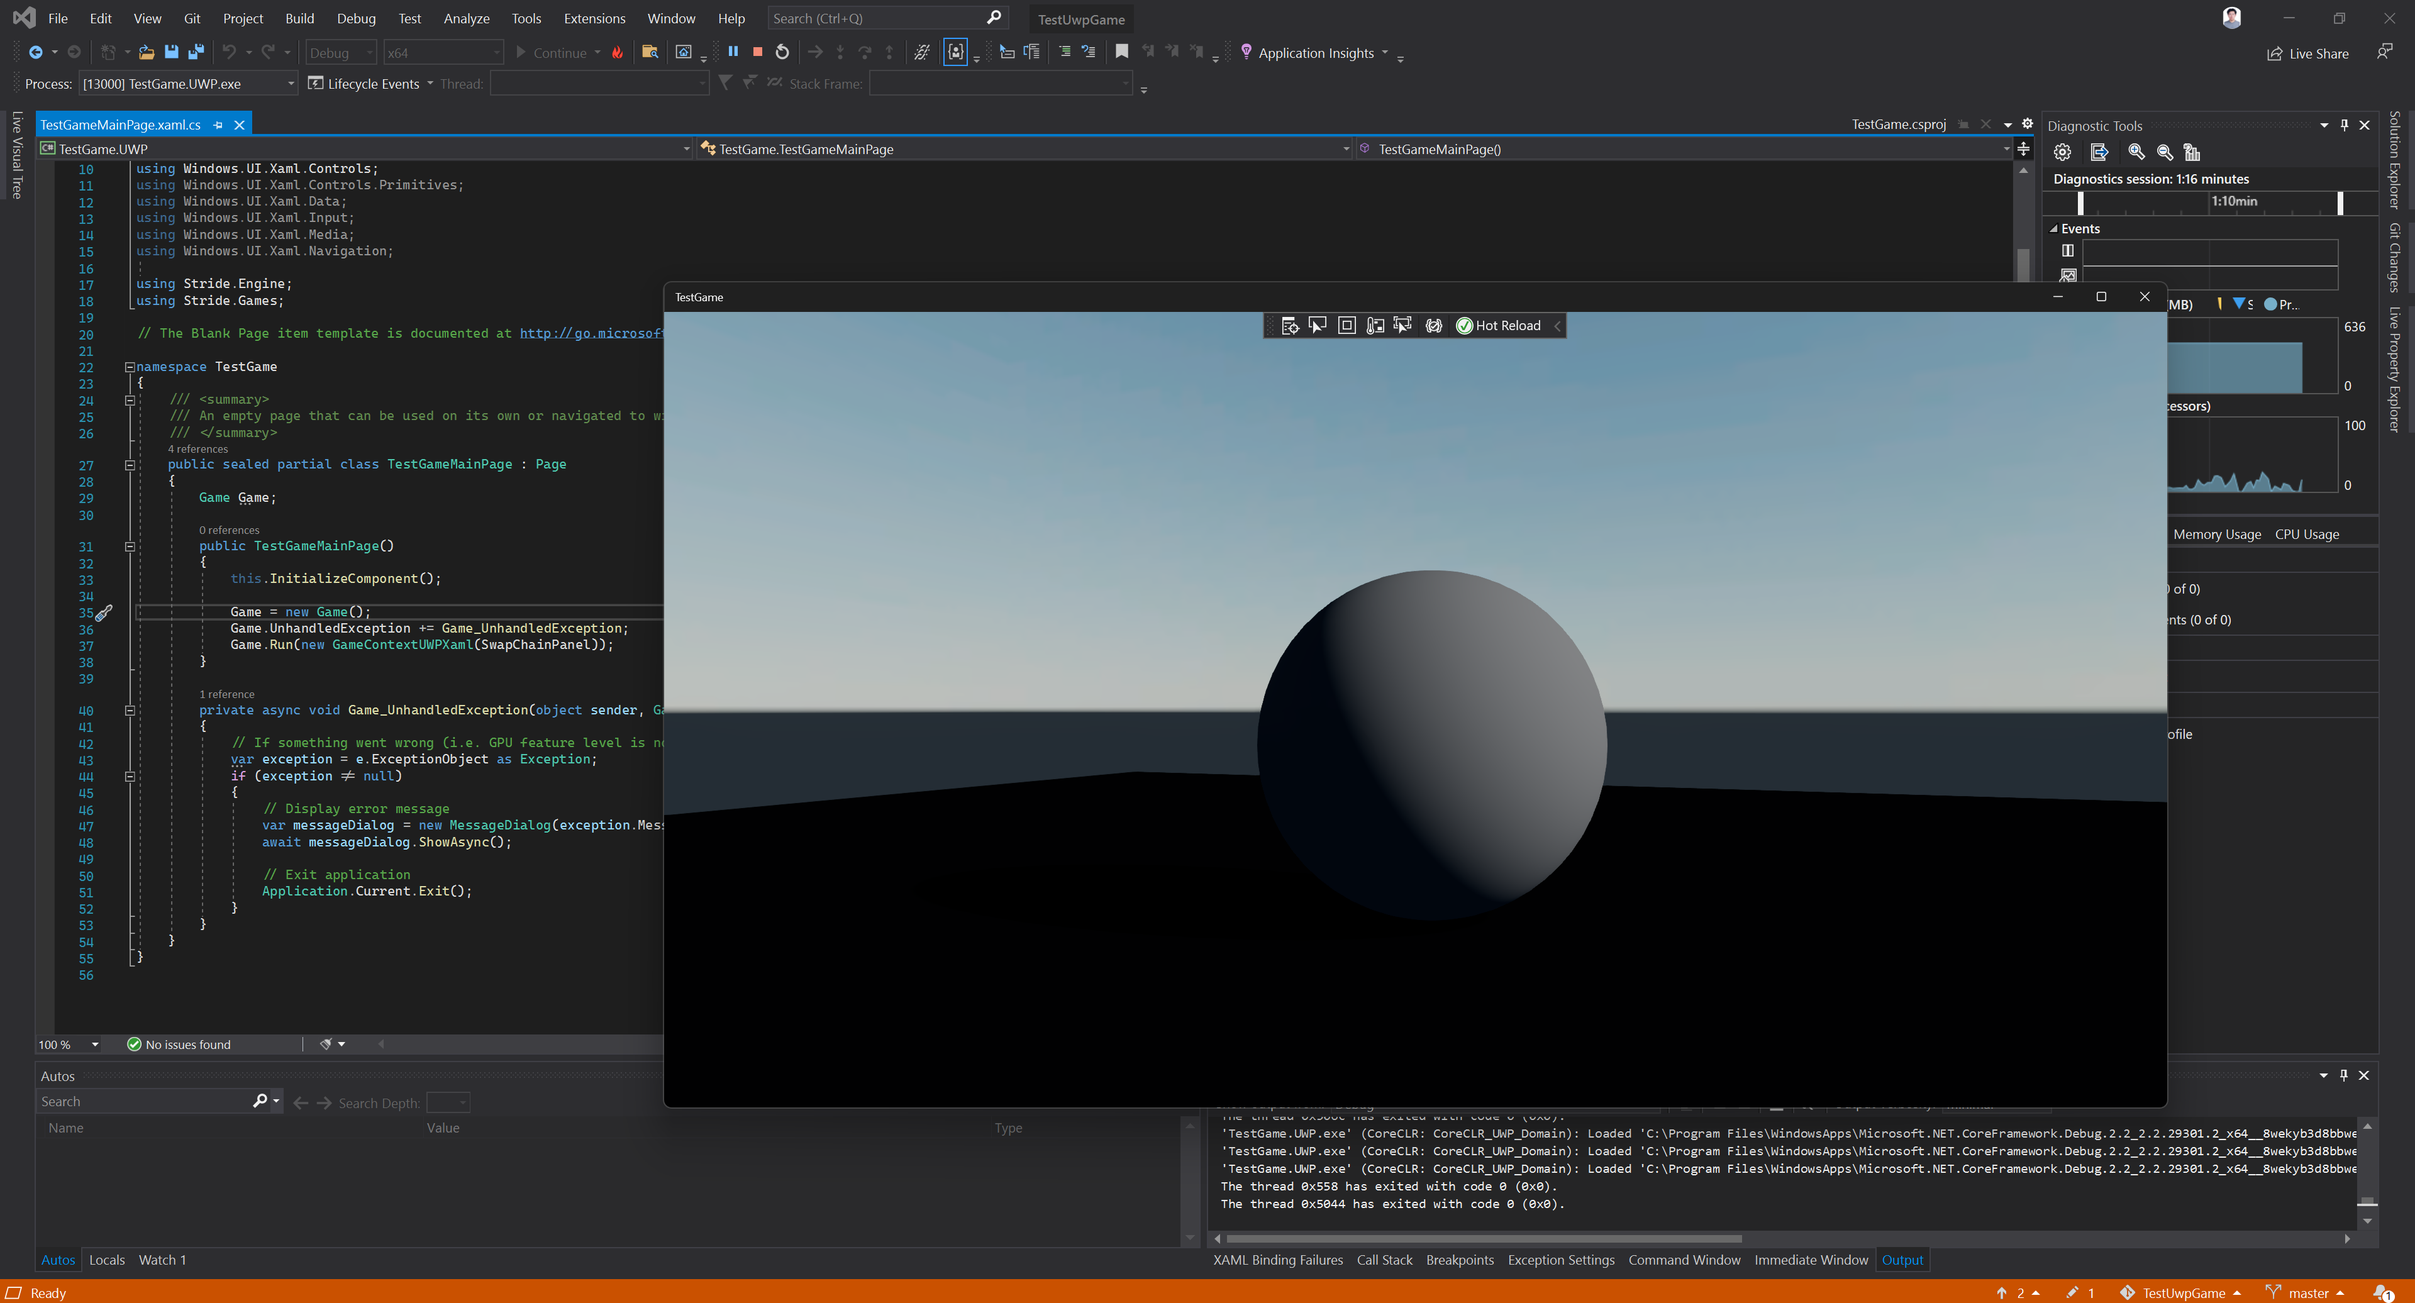
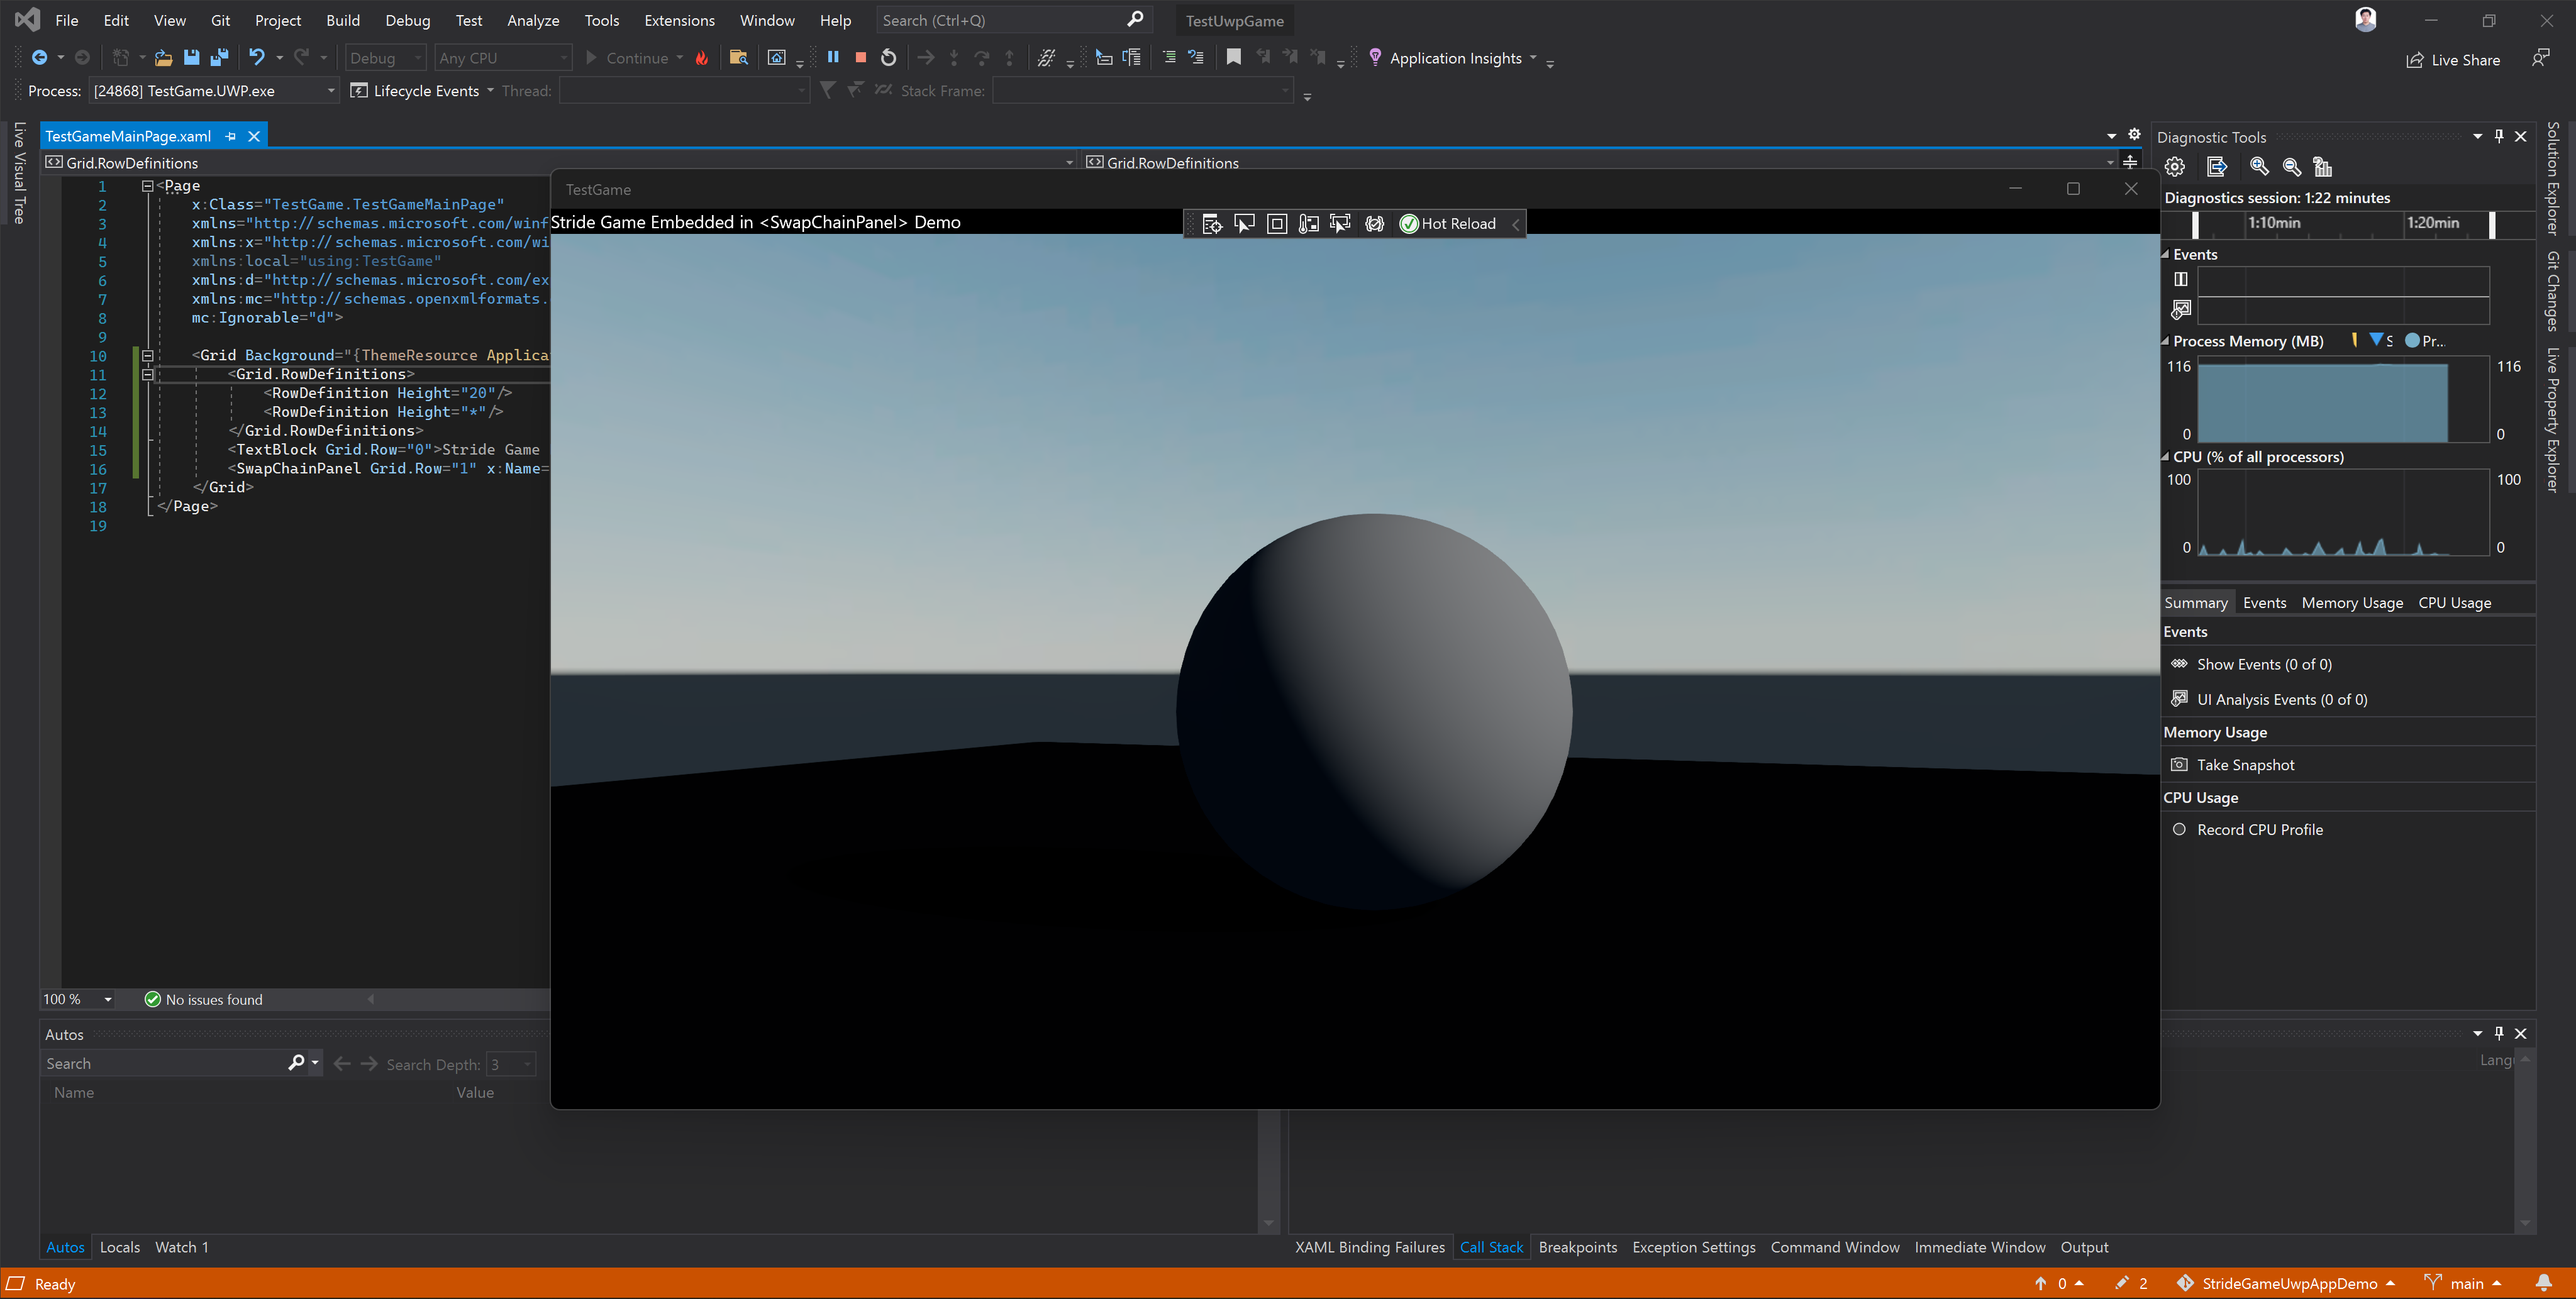
Refine Main Window layout

diff --git a/TestGame.UWP/TestGameMainPage.xaml b/TestGame.UWP/TestGameMainPage.xaml
@@ -8,6 +8,11 @@
     mc:Ignorable="d">
 
     <Grid Background="{ThemeResource ApplicationPageBackgroundThemeBrush}">
-        <SwapChainPanel x:Name="SwapChainPanel" />
+        <Grid.RowDefinitions>
+            <RowDefinition Height="20"/>
+            <RowDefinition Height="*"/>
+        </Grid.RowDefinitions>
+        <TextBlock Grid.Row="0">Stride Game Embedded in &lt;SwapChainPanel&gt; Demo</TextBlock>
+        <SwapChainPanel Grid.Row="1" x:Name="SwapChainPanel" />
     </Grid>
 </Page>
